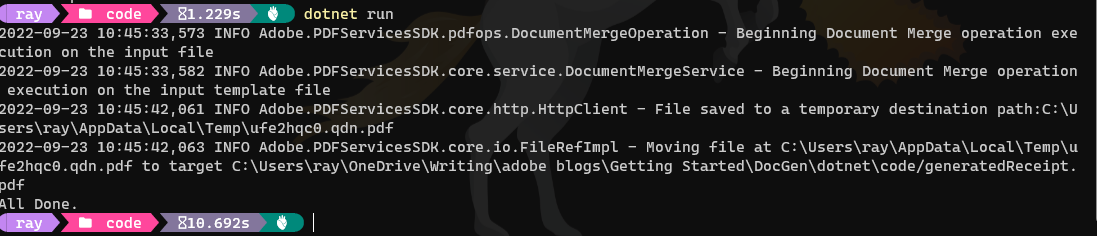
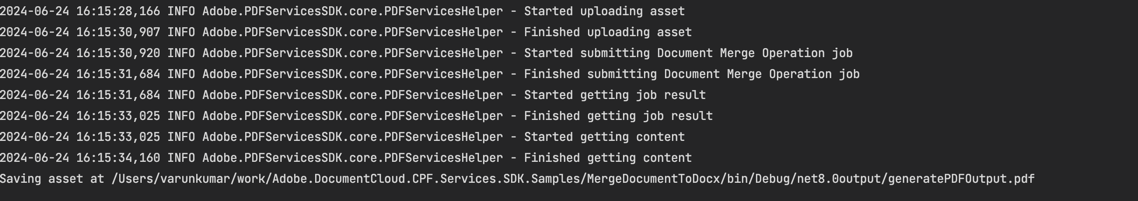
Doc Gen

diff --git a/src/pages/overview/document-generation-api/quickstarts/dotnet/index.md b/src/pages/overview/document-generation-api/quickstarts/dotnet/index.md
@@ -10,7 +10,7 @@ To get started using Adobe Document Generation API, let's walk through a simple 
 
 To complete this guide, you will need:
 
-* [.NET: version 6.0 or above](https://dotnet.microsoft.com/en-us/download)
+* [.NET: version 8.0 or above](https://dotnet.microsoft.com/en-us/download)
 * [.Net SDK](https://dotnet.microsoft.com/en-us/download/dotnet/6.0)
 * A build tool: Either Visual Studio or .NET Core CLI.
 * An Adobe ID. If you do not have one, the credential setup will walk you through creating one.
@@ -49,23 +49,30 @@ To complete this guide, you will need:
 ```xml
 <Project Sdk="Microsoft.NET.Sdk">
 
-    <PropertyGroup>
-        <OutputType>Exe</OutputType>
-        <TargetFramework>netcoreapp3.1</TargetFramework>
-    </PropertyGroup>
+  <PropertyGroup>
+    <OutputType>Exe</OutputType>
+    <TargetFramework>net8.0</TargetFramework>
+  </PropertyGroup>
 
-    <ItemGroup>
-        <PackageReference Include="log4net" Version="2.0.12" />
-        <PackageReference Include="Adobe.PDFServicesSDK" Version="3.5.1" />
-    </ItemGroup>
+  <ItemGroup>
+    <PackageReference Include="Adobe.PDFServicesSDK" Version="4.0.0" />
+    <PackageReference Include="log4net" Version="2.0.17" />
+  </ItemGroup>
 
-    <ItemGroup>
-        <None Update="log4net.config">
-            <CopyToOutputDirectory>Always</CopyToOutputDirectory>
-        </None>
-    </ItemGroup>
+  <ItemGroup>
+    <None Update="log4net.config">
+      <CopyToOutputDirectory>Always</CopyToOutputDirectory>
+    </None>
+    <None Update="receiptTemplate.docx">
+      <CopyToOutputDirectory>Always</CopyToOutputDirectory>
+    </None>
+    <None Update="receipt.docx">
+      <CopyToOutputDirectory>Always</CopyToOutputDirectory>
+    </None>
+  </ItemGroup>
 
 </Project>
+
 ```
 
 Our application will take a Word document, `receiptTemplate.docx` (downloadable from [here](/receiptTemplate.docx)), and combine it with data in a JSON file, `receipt.json` (downloadable from [here](/receipt.json)), to be sent to the Acrobat Services API and generate a receipt PDF.
@@ -132,19 +139,19 @@ Notice how the tokens in the Word document match up with values in our JSON. Whi
 3) We'll begin by including our required dependencies:
 
 ```javascript
-using System.IO;
 using System;
-using System.Collections.Generic;
-using log4net.Repository;
-using log4net.Config;
-using log4net;
+using System.IO;
 using System.Reflection;
 using Adobe.PDFServicesSDK;
 using Adobe.PDFServicesSDK.auth;
-using Adobe.PDFServicesSDK.pdfops;
-using Adobe.PDFServicesSDK.io;
 using Adobe.PDFServicesSDK.exception;
-using Adobe.PDFServicesSDK.options.documentmerge;
+using Adobe.PDFServicesSDK.io;
+using Adobe.PDFServicesSDK.pdfjobs.jobs;
+using Adobe.PDFServicesSDK.pdfjobs.parameters.documentmerge;
+using Adobe.PDFServicesSDK.pdfjobs.results;
+using log4net;
+using log4net.Config;
+using log4net.Repository;
 using Newtonsoft.Json.Linq;
 ```
 
@@ -158,76 +165,81 @@ namespace GeneratePDF
         private static readonly ILog log = LogManager.GetLogger(typeof(Program));
         static void Main()
         {
-		}
-	}
+            
+        }
+    }
 }
 ```
 
-5) Inside our class, we'll begin by defining our input Word, JSON and output filenames. If the output file already exists, it will be deleted:
-
-```javascript
-String input = "receiptTemplate.docx";
-
-String output = "/generatedReceipt.pdf";
-if(File.Exists(Directory.GetCurrentDirectory() + output))
-{
-	File.Delete(Directory.GetCurrentDirectory() + output);
-}
-
-string json = File.ReadAllText("receipt.json");
-JObject data = JObject.Parse(json);
-```
-
-These lines are hard coded but in a real application would typically be dynamic.
-
-6) Set the environment variables `PDF_SERVICES_CLIENT_ID` and `PDF_SERVICES_CLIENT_SECRET` by running the following commands and replacing placeholders `YOUR CLIENT ID` and `YOUR CLIENT SECRET` with the credentials present in `pdfservices-api-credentials.json` file:
+5) Set the environment variables `PDF_SERVICES_CLIENT_ID` and `PDF_SERVICES_CLIENT_SECRET` by running the following commands and replacing placeholders `YOUR CLIENT ID` and `YOUR CLIENT SECRET` with the credentials present in `pdfservices-api-credentials.json` file:
 - **Windows:**
-    - `set PDF_SERVICES_CLIENT_ID=<YOUR CLIENT ID>`
-    - `set PDF_SERVICES_CLIENT_SECRET=<YOUR CLIENT SECRET>`
+  - `set PDF_SERVICES_CLIENT_ID=<YOUR CLIENT ID>`
+  - `set PDF_SERVICES_CLIENT_SECRET=<YOUR CLIENT SECRET>`
 
 - **MacOS/Linux:**
-    - `export PDF_SERVICES_CLIENT_ID=<YOUR CLIENT ID>`
-    - `export PDF_SERVICES_CLIENT_SECRET=<YOUR CLIENT SECRET>`
+  - `export PDF_SERVICES_CLIENT_ID=<YOUR CLIENT ID>`
+  - `export PDF_SERVICES_CLIENT_SECRET=<YOUR CLIENT SECRET>`
 
-7) Next, we setup the SDK to use our credentials.
+
+6) Next, we can create our credentials and use them to create a PDF Services instance
 
 ```javascript
-// Initial setup, create credentials instance.
-Credentials credentials = Credentials.ServicePrincipalCredentialsBuilder()
-    .WithClientId(Environment.GetEnvironmentVariable("PDF_SERVICES_CLIENT_ID"))
-    .WithClientSecret(Environment.GetEnvironmentVariable("PDF_SERVICES_CLIENT_SECRET"))
-    .Build();
+// Initial setup, create credentials instance
+ICredentials credentials = new ServicePrincipalCredentials(
+        Environment.GetEnvironmentVariable("PDF_SERVICES_CLIENT_ID"),
+        Environment.GetEnvironmentVariable("PDF_SERVICES_CLIENT_SECRET"));
 
-// Create an ExecutionContext using credentials and create a new operation instance.
-ExecutionContext executionContext = ExecutionContext.Create(credentials);
+// Creates a PDF Services instance
+PDFServices pdfServices = new PDFServices(credentials);
 ```
 
-This code both points to the credentials downloaded previously as well as sets up an execution context object that will be used later.
-
-8) Now, let's create the operation:
+7) Now, let's upload the asset and create JSON data for merge:
 
 ```javascript
-DocumentMergeOptions documentMergeOptions = new DocumentMergeOptions(data, OutputFormat.PDF);
-DocumentMergeOperation documentMergeOperation = DocumentMergeOperation.CreateNew(documentMergeOptions);
+IAsset asset = pdfServices.Upload(inputStream, PDFServicesMediaType.DOCX.GetMIMETypeValue());
 
-// Provide an input FileRef for the operation.
-FileRef sourceFileRef = FileRef.CreateFromLocalFile(input);
-documentMergeOperation.SetInput(sourceFileRef);
+String json = File.ReadAllText(@"receipt.json");
+JObject jsonDataForMerge = JObject.Parse(json);
+```
+
+8) Now, let's create the parameters and the job:
+
+```javascript
+// Create parameters for the job
+DocumentMergeParams documentMergeParams = DocumentMergeParams.DocumentMergeParamsBuilder()
+    .WithJsonDataForMerge(jsonDataForMerge)
+    .WithOutputFormat(OutputFormat.PDF)
+    .Build();
+
+// Creates a new job instance
+DocumentMergeJob documentMergeJob = new DocumentMergeJob(asset, documentMergeParams);
 ```
 
 This set of code defines what we're doing (a document merge operation, the SDK's way of describing Document Generation), points to our local JSON file and specifies the output is a PDF. It also points to the Word file used as a template.
 
-9) The next code block executes the operation:
+9) The next code block submits the job and gets the job result:
 
 ```javascript
-// Execute the operation.
-FileRef result = documentMergeOperation.Execute(executionContext);
+// Submits the job and gets the job result
+String location = pdfServices.Submit(documentMergeJob);
+PDFServicesResponse<DocumentMergeResult> pdfServicesResponse =
+    pdfServices.GetJobResult<DocumentMergeResult>(location, typeof(DocumentMergeResult));
 
-// Save the result to the specified location.
-result.SaveAs(Directory.GetCurrentDirectory() + output);
+// Get content from the resulting asset(s)
+IAsset resultAsset = pdfServicesResponse.Result.Asset;
+StreamAsset streamAsset = pdfServices.GetContent(resultAsset);
 ```
 
-This code runs the document generation process and then stores the result PDF document to the file system. 
+10) The next code block saves the result at the specified location:
+
+```javascript
+// Creating an output stream and copying stream asset's content to it
+Stream outputStream = File.OpenWrite(Directory.GetCurrentDirectory() + "output/generatePDFOutput.pdf");
+streamAsset.Stream.CopyTo(outputStream);
+outputStream.Close();
+```
+
+This code runs the Document Generation process and then stores the resulting PDF document to the file system.
 
 ![Example running at the command line](./shot9.png)
 
@@ -254,49 +266,53 @@ namespace GeneratePDF
     class Program
     {
         private static readonly ILog log = LogManager.GetLogger(typeof(Program));
+        
         static void Main()
         {
-            // Configure the logging.
+            //Configure the logging
             ConfigureLogging();
             try
             {
+                // Initial setup, create credentials instance
+                ICredentials credentials = new ServicePrincipalCredentials(
+                    Environment.GetEnvironmentVariable("PDF_SERVICES_CLIENT_ID"),
+                    Environment.GetEnvironmentVariable("PDF_SERVICES_CLIENT_SECRET"));
 
-                String input = "receiptTemplate.docx";
+                // Creates a PDF Services instance
+                PDFServices pdfServices = new PDFServices(credentials);
 
-                String output = "/generatedReceipt.pdf";
-                if(File.Exists(Directory.GetCurrentDirectory() + output))
-                {
-                    File.Delete(Directory.GetCurrentDirectory() + output);
-                }
+                // Creates an asset from source file and upload
+                using Stream inputStream = File.OpenRead(@"receiptTemplate.docx");
+                IAsset asset = pdfServices.Upload(inputStream, PDFServicesMediaType.DOCX.GetMIMETypeValue());
 
-                string json = File.ReadAllText("receipt.json");
-                JObject data = JObject.Parse(json);
+                // Setup input data for the document merge process
+                String json = File.ReadAllText(@"receipt.json");
+                JObject jsonDataForMerge = JObject.Parse(json);
 
-                // Initial setup, create credentials instance.
-                Credentials credentials = Credentials.ServicePrincipalCredentialsBuilder()
-                    .WithClientId(Environment.GetEnvironmentVariable("PDF_SERVICES_CLIENT_ID"))
-                    .WithClientSecret(Environment.GetEnvironmentVariable("PDF_SERVICES_CLIENT_SECRET"))
+                // Create parameters for the job
+                DocumentMergeParams documentMergeParams = DocumentMergeParams.DocumentMergeParamsBuilder()
+                    .WithJsonDataForMerge(jsonDataForMerge)
+                    .WithOutputFormat(OutputFormat.DOCX)
                     .Build();
 
-                // Create an ExecutionContext using credentials and create a new operation instance.
-                ExecutionContext executionContext = ExecutionContext.Create(credentials);
+                // Creates a new job instance
+                DocumentMergeJob documentMergeJob = new DocumentMergeJob(asset, documentMergeParams);
 
-                DocumentMergeOptions documentMergeOptions = new DocumentMergeOptions(data, OutputFormat.PDF);
-                DocumentMergeOperation documentMergeOperation = DocumentMergeOperation.CreateNew(documentMergeOptions);
- 
-                // Provide an input FileRef for the operation.
-                FileRef sourceFileRef = FileRef.CreateFromLocalFile(input);
-                documentMergeOperation.SetInput(sourceFileRef);
-                
-                // Execute the operation.
-                FileRef result = documentMergeOperation.Execute(executionContext);
+                // Submits the job and gets the job result
+                String location = pdfServices.Submit(documentMergeJob);
+                PDFServicesResponse<DocumentMergeResult> pdfServicesResponse =
+                    pdfServices.GetJobResult<DocumentMergeResult>(location, typeof(DocumentMergeResult));
 
-                // Save the result to the specified location.
-                result.SaveAs(Directory.GetCurrentDirectory() + output);
-                
-        		Console.Write("All Done.\n");
+                // Get content from the resulting asset(s)
+                IAsset resultAsset = pdfServicesResponse.Result.Asset;
+                StreamAsset streamAsset = pdfServices.GetContent(resultAsset);
 
-                
+                // Creating output streams and copying stream asset's content to it
+                Stream outputStream = File.OpenWrite(Directory.GetCurrentDirectory() + "output/generatePDFOutput.pdf");
+                streamAsset.Stream.CopyTo(outputStream);
+                outputStream.Close();
+
+                Console.WriteLine("Saving asset at " + Directory.GetCurrentDirectory() + "output/generatePDFOutput.pdf");
             }
             catch (ServiceUsageException ex)
             {
